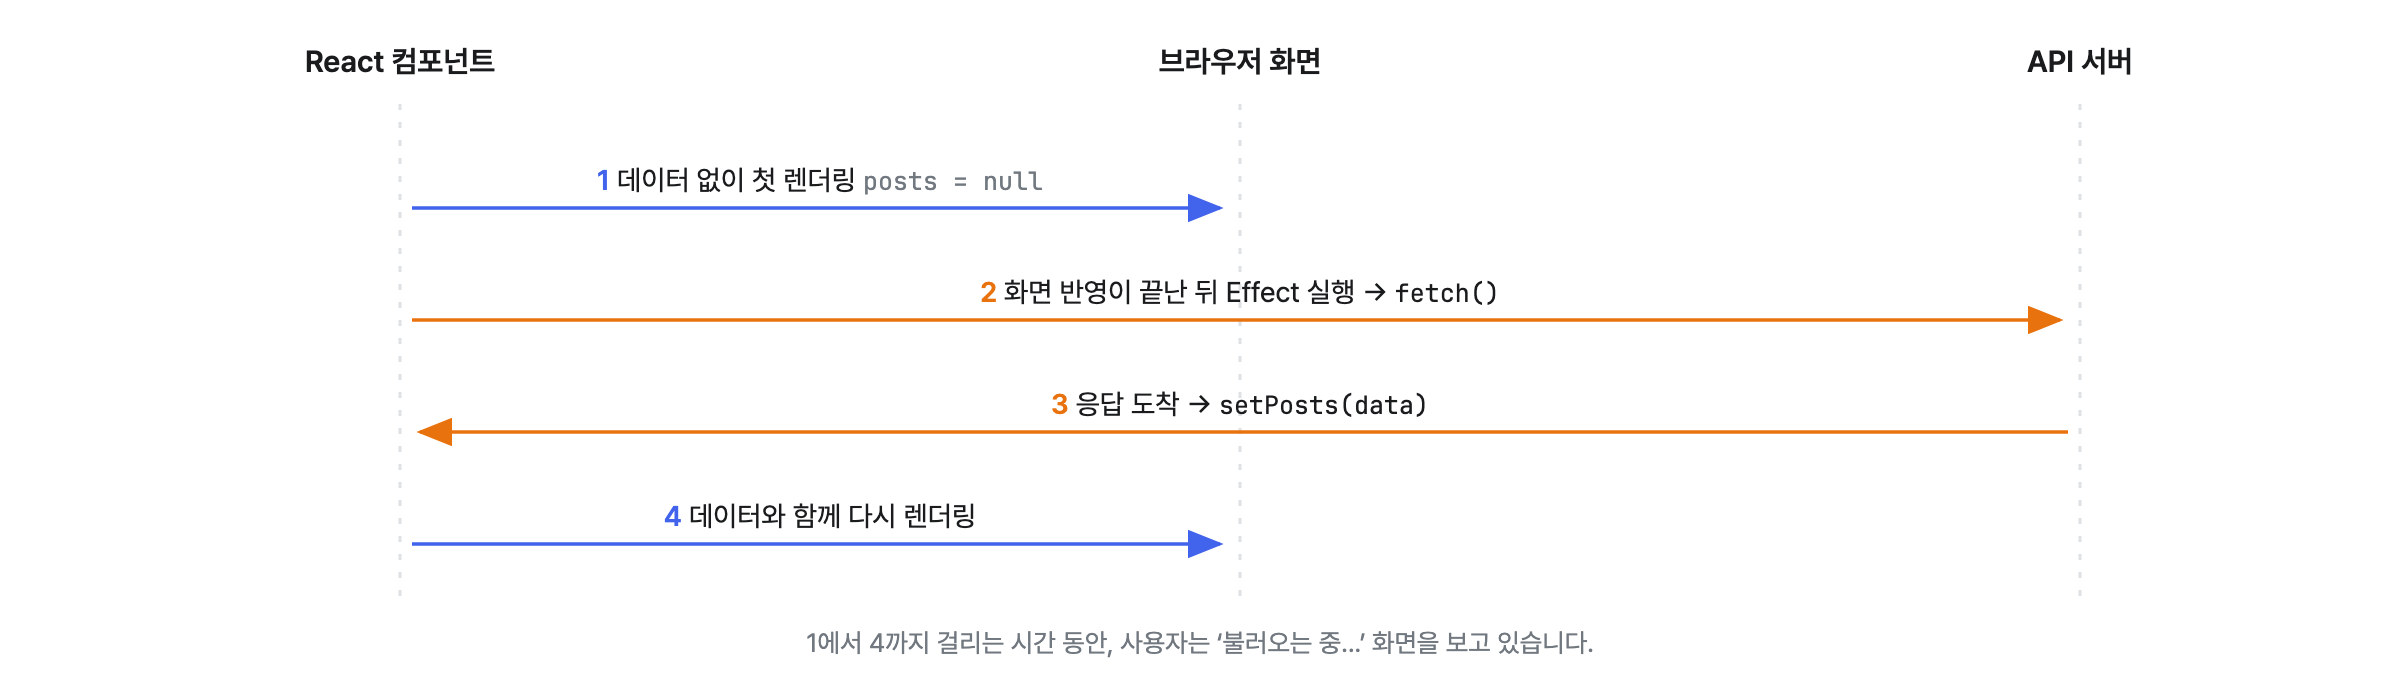
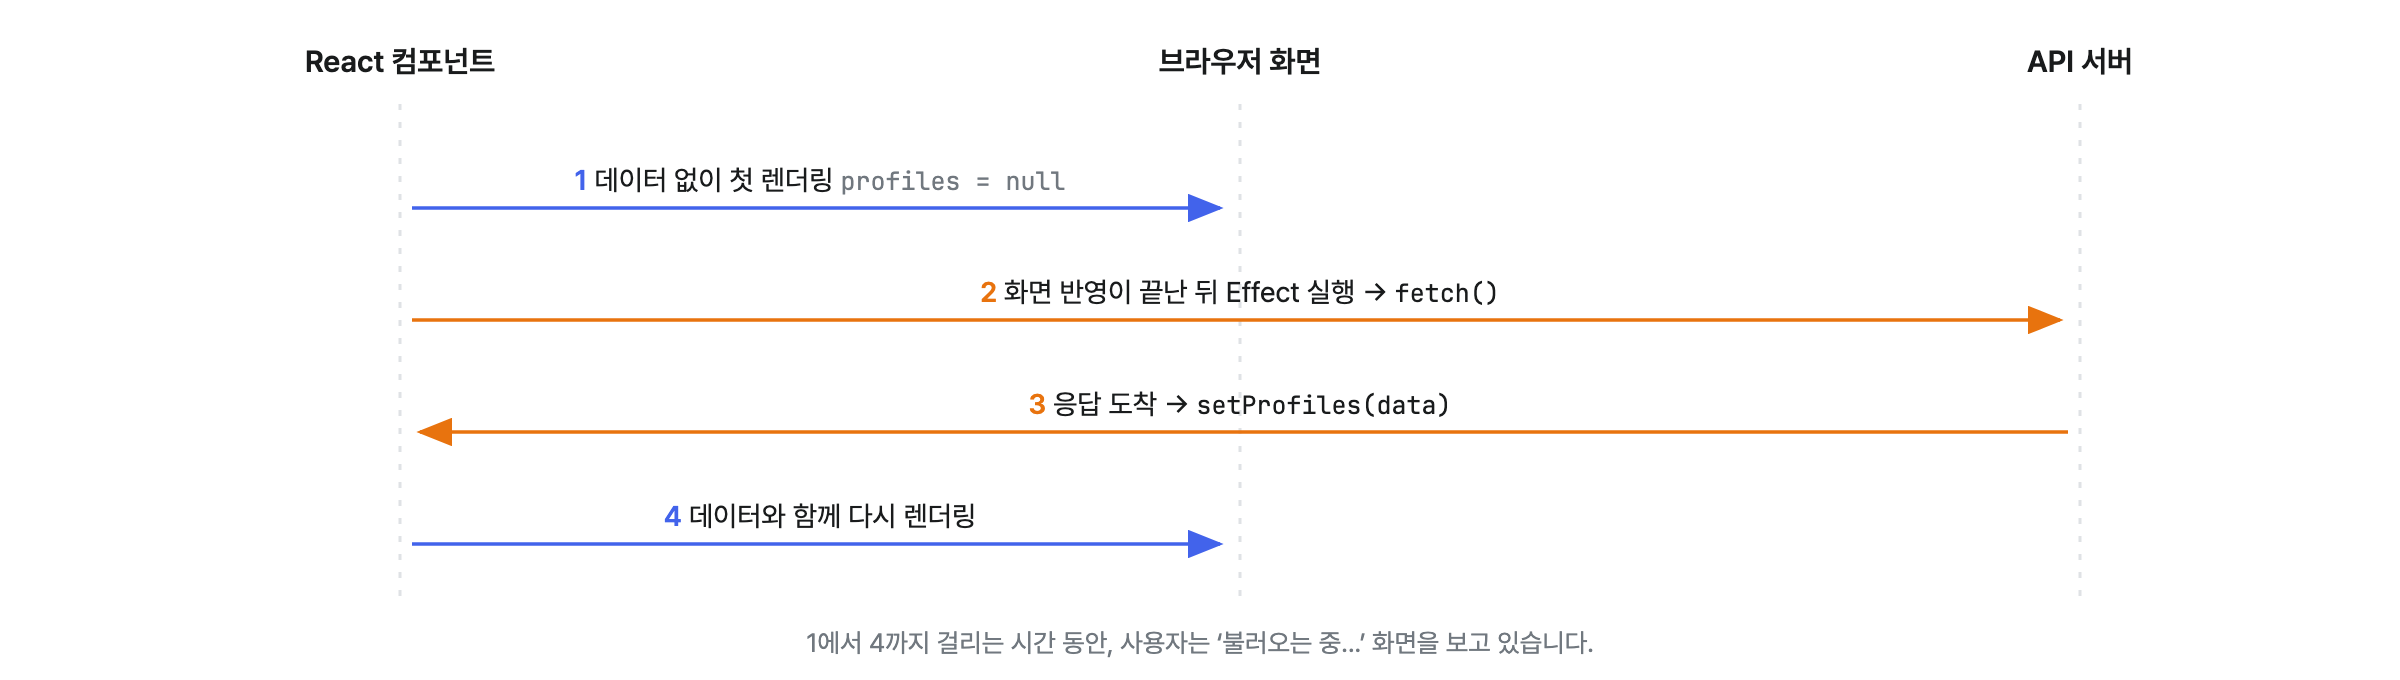
docs: 5차시 자료를 API 기반의 실습으로 변경

Changed region(s): [[0.4375, 0.5559, 0.625, 0.6176], [0.2188, 0.2471, 0.4375, 0.3088]]

diff --git a/README.md b/README.md
@@ -3,12 +3,13 @@
 프론트엔드 스터디를 위한 레포지토리입니다.
 
 ## 커리큘럼
-| No | 주제 | 과제 | 참고 자료 |
-|:--:|:--:|:--:|:--:|
-| 0 | [프로젝트 설정 및 React 시작하기](./.docs/0-Project/README.md) | - | - |
-| 1 | [Welcome to React](./.docs/1-React/README.md) | [Todo List 만들기](./projects/1-React/) | - |
-| 2 | [Hook](./.docs/2-Hook/README.md) | [채팅 입력 임시 저장 기능 만들기](./projects/2-Hook/) | - |
-| 3 | [Context와 컴포넌트 합성](./.docs/3-Context/README.md) | [게시물 작성 화면 만들기](./projects/3-Context/README.md) | [React 공식 문서](https://ko.react.dev/learn/passing-data-deeply-with-context#use-cases-for-context) |
-| 4 | [웹 서버와 브라우저](./.docs/4-Fetch/README.md) | X | [개발자 90%가 모르는 자바스크립트 동작 원리](https://youtu.be/v67LloZ1ieI) |
-| 5 | [API 요청과 React 상태 관리](./.docs/5-Form/README.md) | - | [React Router SPA](https://reactrouter.com/how-to/spa), [TanStack Query Suspense](https://tanstack.com/query/latest/docs/framework/react/guides/suspense), [Zod](https://zod.dev/basics) |
-| 6 | 빠르고 깔끔하게 UI를 작성하는 방법 | - | - |
+
+| No  |                              주제                              |                           과제                            |                                                                                        참고 자료                                                                                         |
+| :-: | :------------------------------------------------------------: | :-------------------------------------------------------: | :--------------------------------------------------------------------------------------------------------------------------------------------------------------------------------------: |
+|  0  | [프로젝트 설정 및 React 시작하기](./.docs/0-Project/README.md) |                             -                             |                                                                                            -                                                                                             |
+|  1  |         [Welcome to React](./.docs/1-React/README.md)          |          [Todo List 만들기](./projects/1-React/)          |                                                                                            -                                                                                             |
+|  2  |                [Hook](./.docs/2-Hook/README.md)                |   [채팅 입력 임시 저장 기능 만들기](./projects/2-Hook/)   |                                                                                            -                                                                                             |
+|  3  |     [Context와 컴포넌트 합성](./.docs/3-Context/README.md)     | [게시물 작성 화면 만들기](./projects/3-Context/README.md) |                                           [React 공식 문서](https://ko.react.dev/learn/passing-data-deeply-with-context#use-cases-for-context)                                           |
+|  4  |        [웹 서버와 브라우저](./.docs/4-Fetch/README.md)         |                             X                             |                                                        [개발자 90%가 모르는 자바스크립트 동작 원리](https://youtu.be/v67LloZ1ieI)                                                        |
+|  5  |     [API 요청과 React 상태 관리](./.docs/5-Form/README.md)     |                             -                             | [React Router SPA](https://reactrouter.com/how-to/spa), [TanStack Query Suspense](https://tanstack.com/query/latest/docs/framework/react/guides/suspense), [Zod](https://zod.dev/basics) |
+|  6  |               빠르고 깔끔하게 UI를 작성하는 방법               |                             -                             |                                                                                            -                                                                                             |
